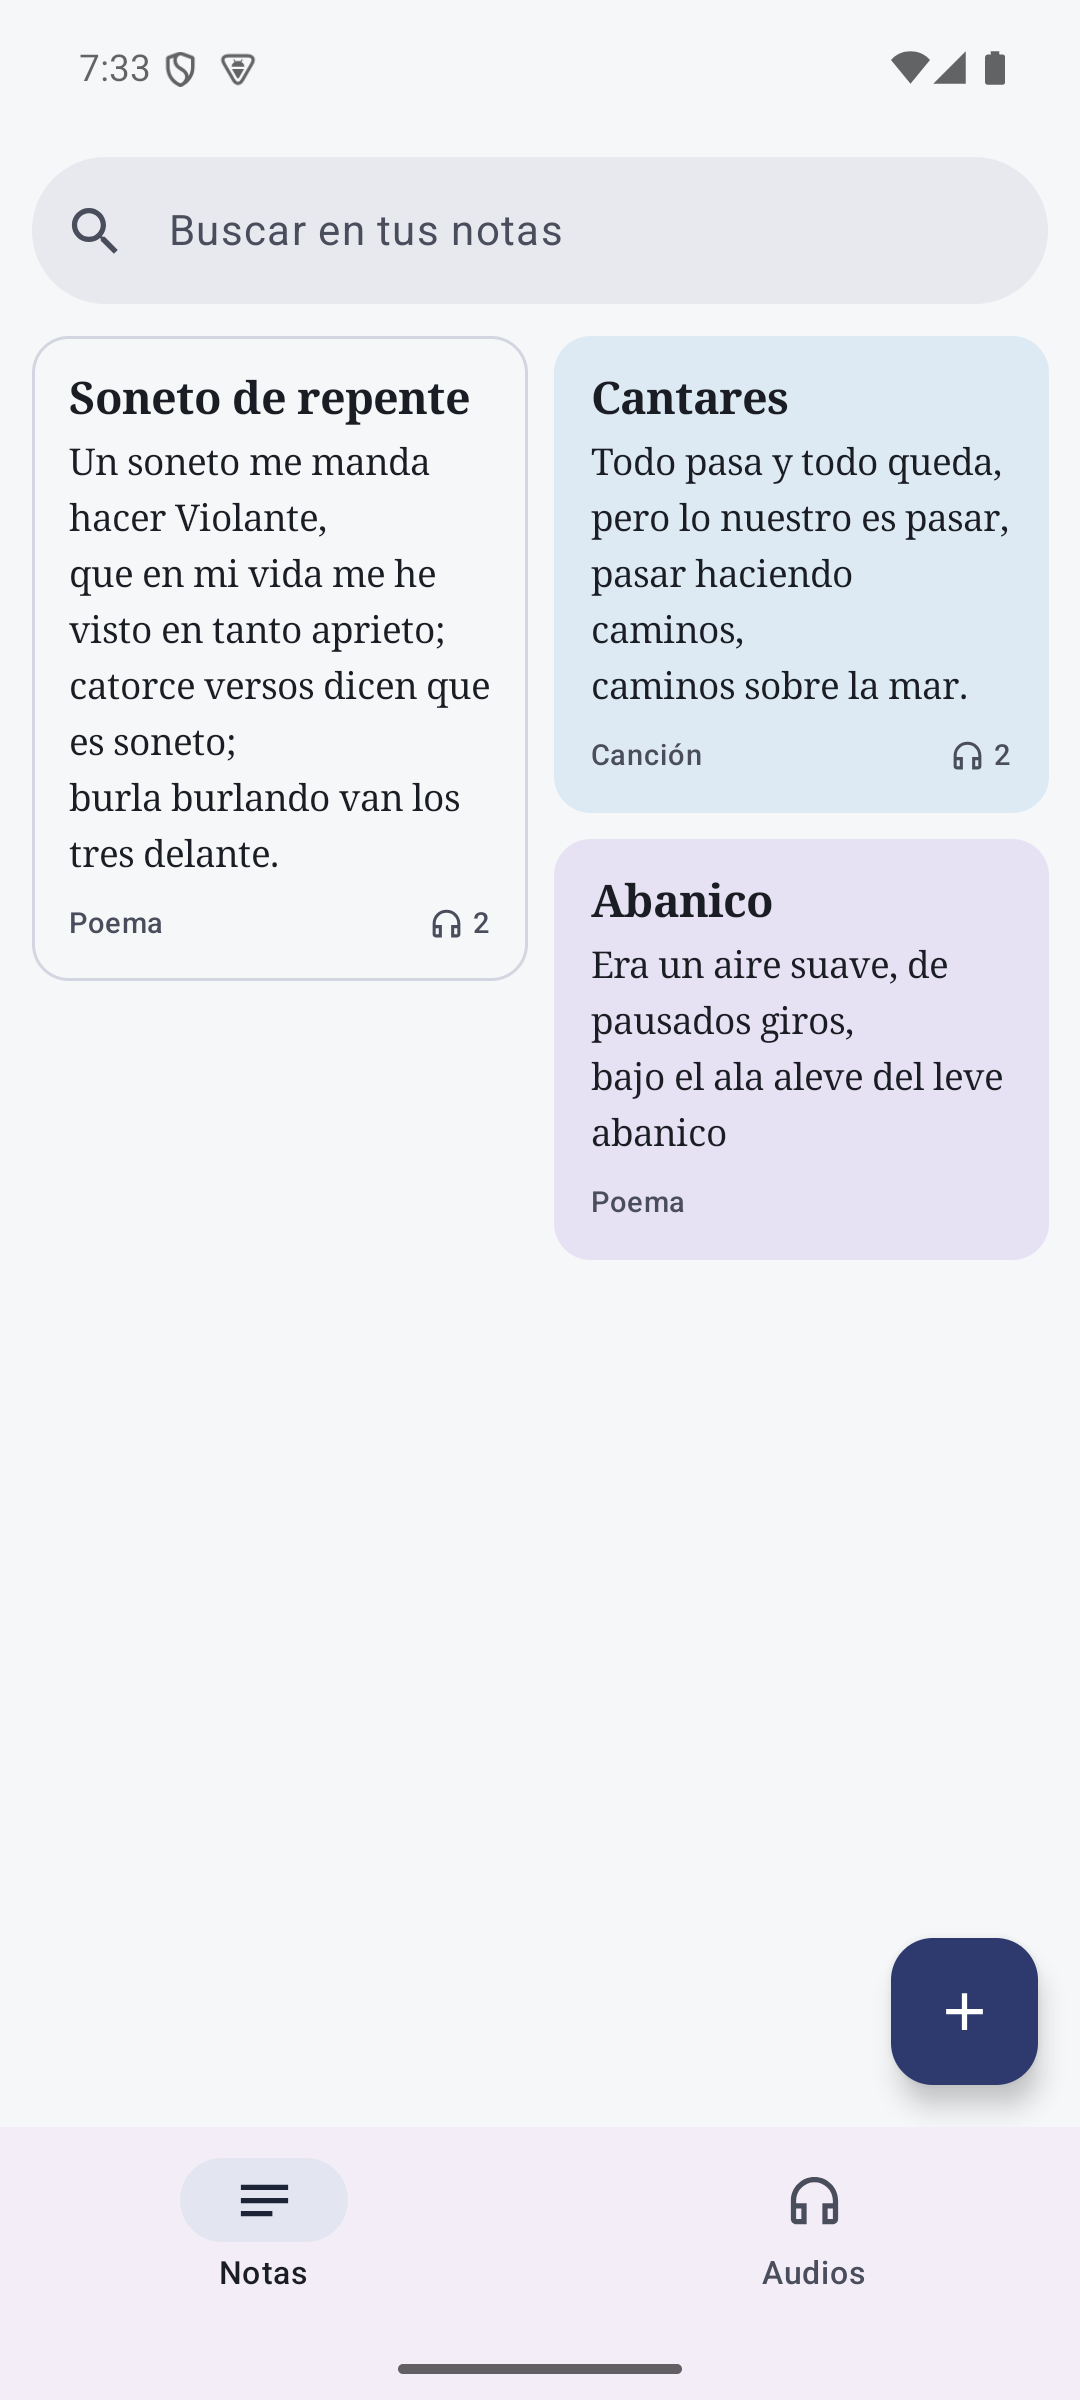
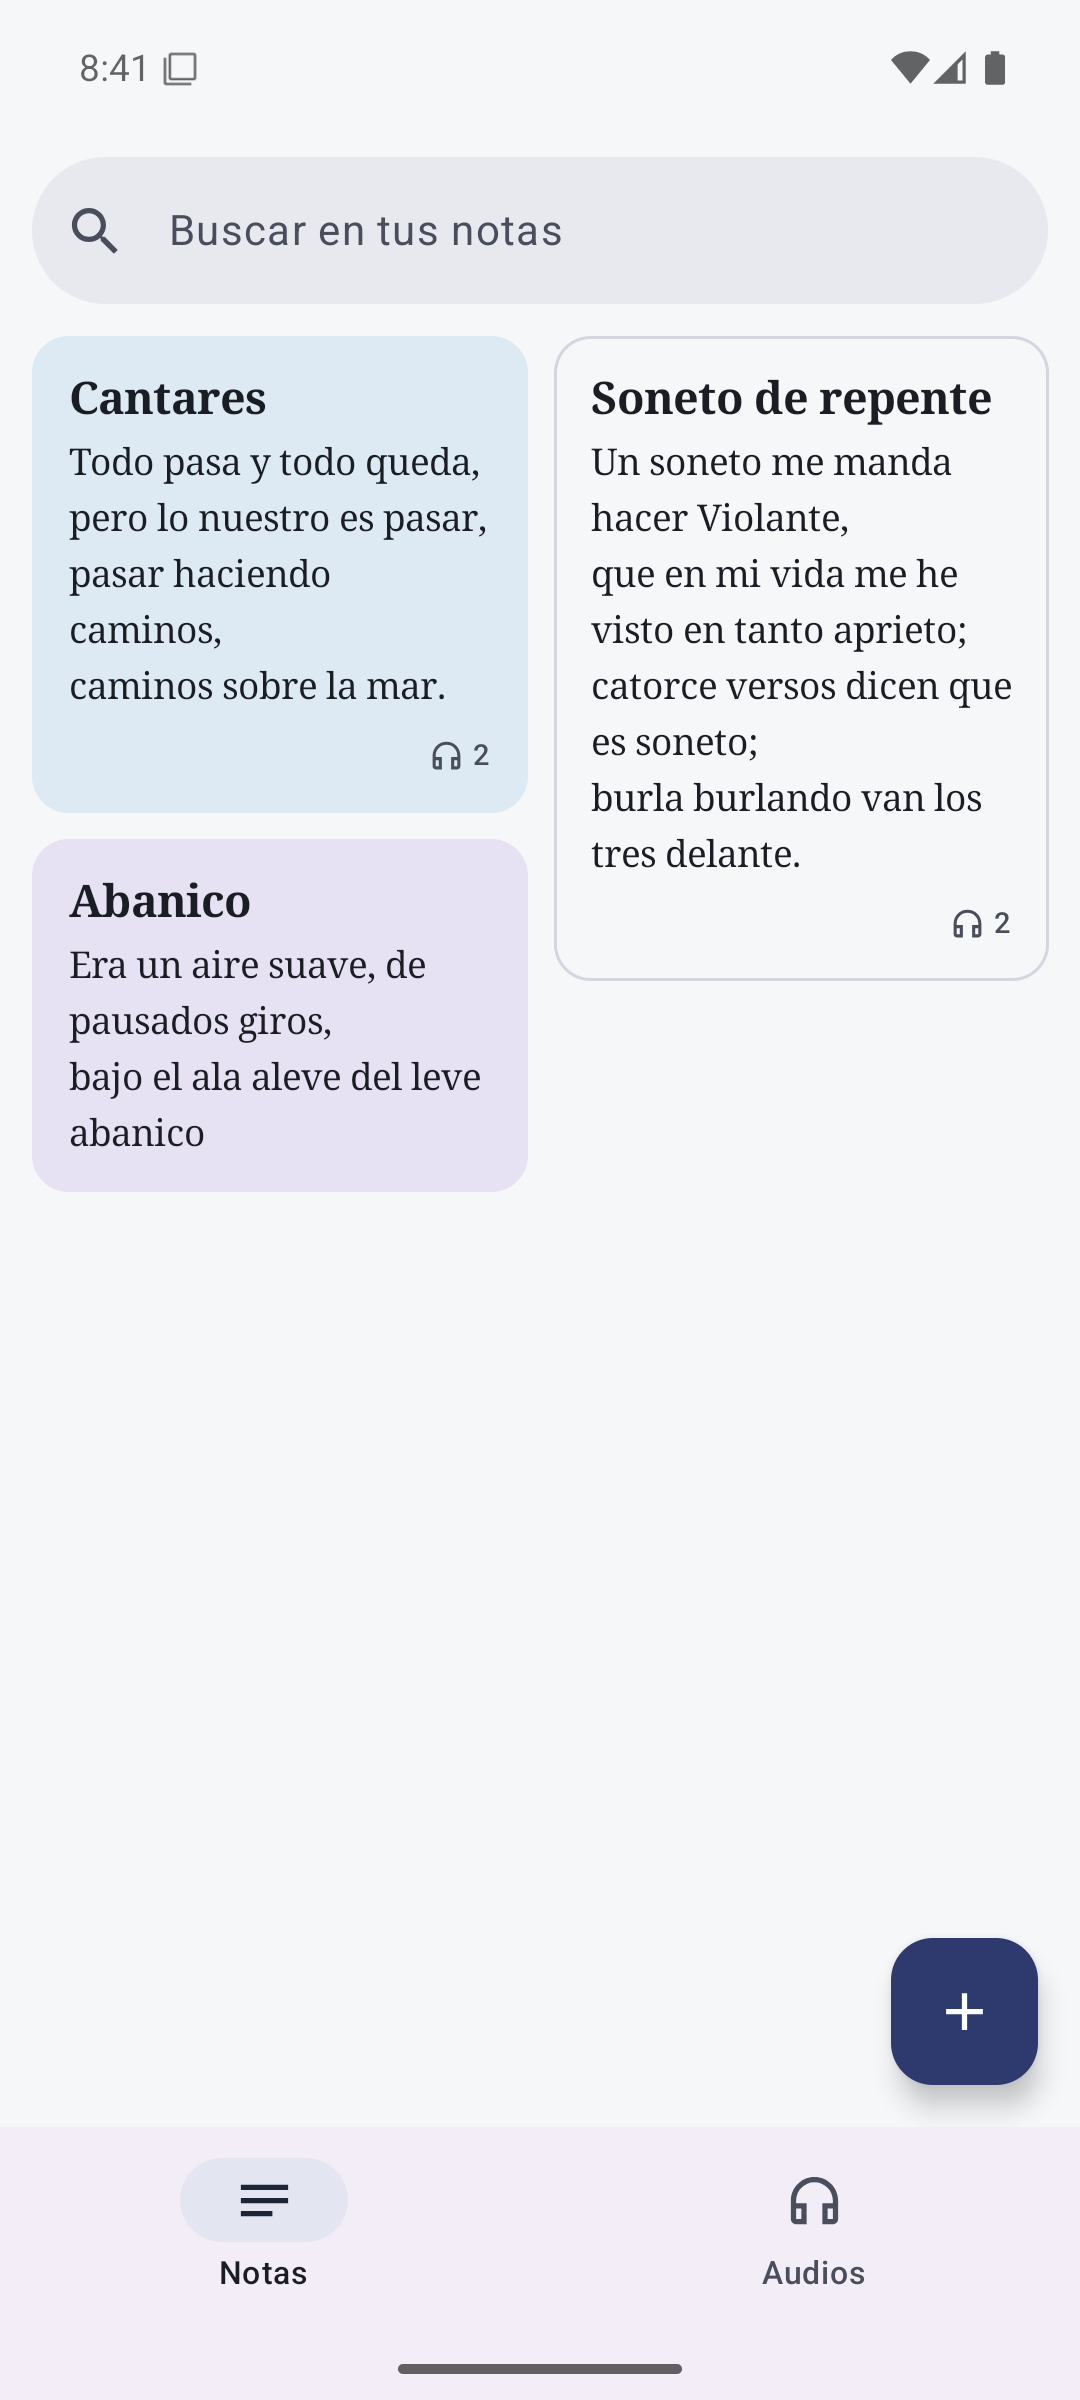
Release 0.2.2
- versionCode 4, versionName 0.2.2.
- New README and documentation screenshots, without the Poema / Canción
  options and with the new rhyme colours.
- README: stricter assonant rhyme for agudas and rhyme colours.

diff --git a/README.md b/README.md
@@ -50,7 +50,9 @@ The app's interface and analysis are in Spanish, and it is designed for Spanish 
 - **Rhyme**: rhyme letter in the margin (ABBA…), both *consonant* (full rhyme) and
   *assonant* (vowels only). Rhymes are compared by sound (b = v, silent h, *yeísmo*), with
   optional *seseo* (s = z = soft c) for Latin American or Andalusian accents. Letters are
-  lowercase for short-line verse (*arte menor*, 8 syllables or fewer).
+  lowercase for short-line verse (*arte menor*, 8 syllables or fewer). Words stressed on the
+  last syllable also need a similar final consonant to rhyme in assonance (*yo / hoy* yes,
+  *boys / hop* no).
 - **Literary devices**: alliteration (clear or possible), anaphora, epiphora, anadiplosis,
   epanadiplosis, geminatio, polysyndeton, asyndeton, parallelism, refrain and internal rhyme.
   Tapping one highlights its words and scrolls to it.
@@ -59,7 +61,9 @@ The app's interface and analysis are in Spanish, and it is designed for Spanish 
 - An always-visible summary: *«Endecasílabo · ABBA ABBA · 3 recursos»* (hendecasyllable,
   rhyme scheme, number of devices).
 - **Rhyme colouring** (brush button): each rhyme group gets its own highlighter colour on the
-  rhyming ending, softer for assonant rhymes; internal rhymes take their group's colour.
+  rhyming ending, softer for assonant rhymes; internal rhymes take their group's colour. The
+  colours are chosen so that two different rhymes never look alike, and from the ninth group
+  on they are also underlined.
 - The whole analysis can be hidden with the **#** button in the top bar.
 
 ## Download
@@ -116,7 +120,7 @@ app/src/main/java/com/tuapp/
   ui/editor/           Editor with autosave and real-time analysis
   ui/theme/            "Ink on paper" theme, verse text styles and note palette
   analisis/            Analysis engine in pure Kotlin (no Android dependencies)
-app/src/test/java/com/tuapp/analisis/   JUnit tests for the engine (62)
+app/src/test/java/com/tuapp/analisis/   JUnit tests for the engine (63)
 app/src/test/java/com/tuapp/audio/      JUnit tests for the audio helpers (5)
 app/src/test/java/com/tuapp/ui/theme/   JUnit tests for the rhyme colours (3)
 docs/                  Technical documentation (docs/es/: Spanish copy)

diff --git a/README.es.md b/README.es.md
@@ -46,7 +46,8 @@ en la app o se adjuntan audios, y se vinculan a las notas a las que pertenecen.
   (sinalefa, ley del acento final). Los versos que no encajan salen en rojo.
 - **Rima**: letra de rima al margen (ABBA…), consonante y asonante, con equivalencias
   fonéticas (b = v, h muda, yeísmo) y **seseo** opcional para acento latinoamericano o andaluz.
-  Minúsculas en arte menor (8 sílabas o menos).
+  Minúsculas en arte menor (8 sílabas o menos). En las palabras agudas, la asonante también
+  pide una consonante final parecida (*yo / hoy* sí, *boys / hop* no).
 - **Recursos literarios**: aliteración (clara o posible), anáfora, epífora, anadiplosis,
   epanadiplosis, geminación, polisíndeton, asíndeton, paralelismo, estribillo y rima interna.
   Al tocar uno se resaltan sus palabras y la pantalla se desplaza hasta él.
@@ -55,6 +56,8 @@ en la app o se adjuntan audios, y se vinculan a las notas a las que pertenecen.
 - Resumen siempre visible: *«Endecasílabo · ABBA ABBA · 3 recursos»*.
 - **Colorear rimas** (botón del pincel): cada grupo de rima tiene su color de rotulador en la
   terminación que rima, más suave en las asonantes; las rimas internas toman el color de su grupo.
+  Los colores están elegidos para que dos rimas distintas nunca se parezcan, y a partir del
+  noveno grupo además van subrayados.
 - Se puede ocultar todo el análisis con el botón **#** de la barra superior.
 
 ## Descargar
@@ -111,7 +114,7 @@ app/src/main/java/com/tuapp/
   ui/editor/           Editor con autoguardado y análisis en tiempo real
   ui/theme/            Tema "tinta sobre papel", estilos de verso y paleta de notas
   analisis/            Motor de análisis en Kotlin puro (sin Android)
-app/src/test/java/com/tuapp/analisis/   Tests JUnit del motor (62)
+app/src/test/java/com/tuapp/analisis/   Tests JUnit del motor (63)
 app/src/test/java/com/tuapp/audio/      Tests JUnit de las utilidades de audio (5)
 app/src/test/java/com/tuapp/ui/theme/   Tests JUnit de los colores de rima (3)
 docs/                  Documentación técnica en inglés (docs/es/: en español)

diff --git a/CLAUDE.md b/CLAUDE.md
@@ -22,7 +22,7 @@ text analysis: metrical syllables per line, rhymes and literary devices.
   tests pass (63 engine + 5 audio helpers + 3 rhyme colours;
   `gradlew testDebugUnitTest`). Tested on an emulator, not yet on a
   real phone.
-- Releases on GitHub: v0.2.1 (current, signed APK, ~1.4 MB), v0.2.0 and v0.1.0.
+- Releases on GitHub: v0.2.2 (current, signed APK, ~1.4 MB), v0.2.1, v0.2.0 and v0.1.0.
 - Build environment on this PC: JDK 17 (Temurin, in `C:\Program Files\Eclipse Adoptium`;
   `java` is not on the PATH, set `JAVA_HOME`), Android SDK in `%LOCALAPPDATA%\Android\Sdk`
   (set in `local.properties`), Gradle wrapper 8.9, `gh` logged in as `alvarocabrero`.

diff --git a/CHANGELOG.es.md b/CHANGELOG.es.md
@@ -2,9 +2,7 @@
 
 [English](CHANGELOG.md) · **Español**
 
-## Sin publicar
-
-En `main`, todavía no está en ninguna versión publicada.
+## 0.2.2 (2026-10-16)
 
 ### Cambios
 - **Colores de rima que nunca se parecen.** Nueva paleta elegida midiendo lo distinto que se ve

diff --git a/CHANGELOG.md b/CHANGELOG.md
@@ -2,9 +2,7 @@
 
 **English** · [Español](CHANGELOG.es.md)
 
-## Unreleased
-
-On `main`, not yet in a published release.
+## 0.2.2 (2026-10-16)
 
 ### Changed
 - **Rhyme colours that never look alike.** New palette chosen by measuring how different every
